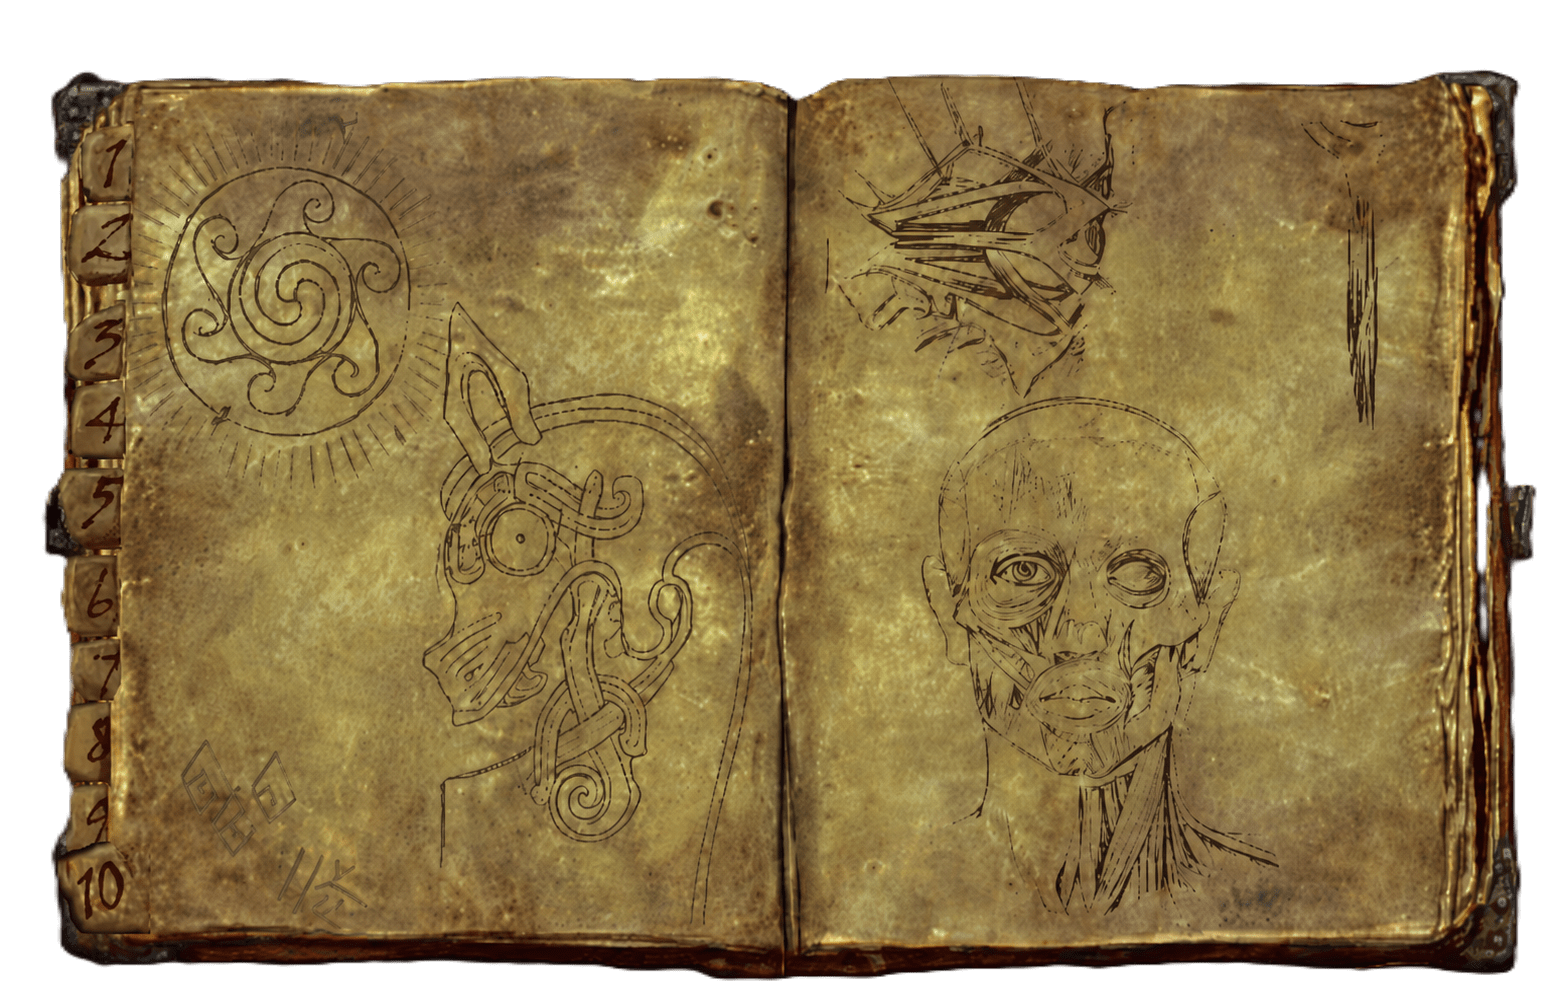
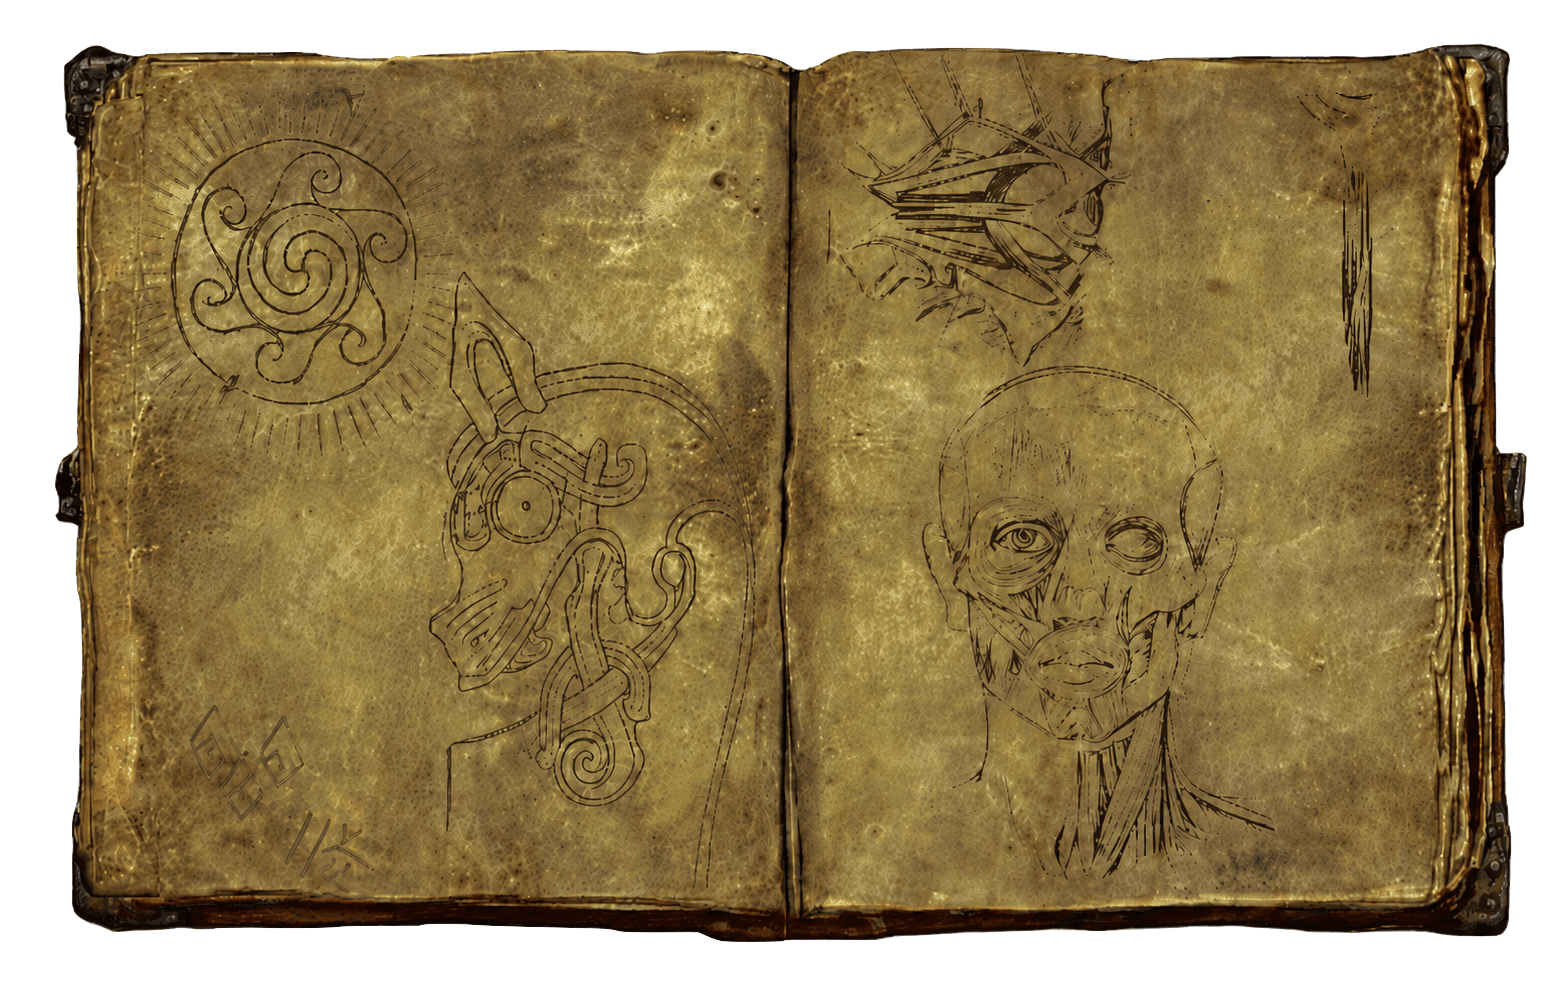
[+] Magic book iterations

diff --git a/src/workers/inventory.js b/src/workers/inventory.js
@@ -202,10 +202,17 @@ on("clicked:trash", function () {
   });
 });
 
+/* A rune id is always "rune-<suffix>" (see items.json); the matching known-
+   flag attribute is "known_<suffix>" — computed, never a stored mapping, so
+   adding a rune never needs a second catalog touched. */
+function knownFlag(runeId) { return "known_" + runeId.slice(5); }
+
 /* The grimoire: consuming a "rune" item there learns it permanently — placed
-   in the first empty spellbook slot (never freed again, no un-learning).
-   Each rune can only be learned once: an already-known rune is refused
-   (stays in hand) so the spellbook never shows the same one twice. */
+   in the first empty spellbook slot (never freed again, no un-learning),
+   and its known_<rune> flag is set so spells requiring it become visible
+   (see magic-slots.css.j2). Each rune can only be learned once: an
+   already-known rune is refused (stays in hand) so the spellbook never
+   shows the same one twice. */
 on("clicked:slot_grimoire", function () {
   getAttrs(SPELLBOOK_SLOTS.concat(["hand", "hand_from"]), function (v) {
     const hand = v.hand || "";
@@ -217,6 +224,7 @@ on("clicked:slot_grimoire", function () {
       if (!v[SPELLBOOK_SLOTS[i]]) {
         const update = { hand: "", hand_from: "", hand_cat: "", hand_effect: "", fit: "" };
         update[SPELLBOOK_SLOTS[i]] = hand;
+        update[knownFlag(hand)] = "1";
         ownCells(v.hand_from || "", hand).forEach(function (c) { update[c] = ""; });
         setAttrs(update);
         return;

diff --git a/src/css/inventory.css b/src/css/inventory.css
@@ -3,13 +3,13 @@
    Both visuals are separate assets — nothing is baked into ARX-BASE-2. */
 
 /* The button, drawn on the checkbox itself (50 × 50 source → 34 px on sheet).
-   Sits outside the book, hugging its left edge, level with the Armor Class shield. */
+   Sits outside the book, hugging its bottom-right corner. */
 .sheet-inventory-toggle {
   -webkit-appearance: none;
   appearance: none;
   position: absolute;
-  left: 12px;
-  top: 167px;
+  left: 1065px;
+  top: 670px;
   width: 34px;
   height: 34px;
   margin: 0;

diff --git a/tests/test_build.py b/tests/test_build.py
@@ -221,7 +221,8 @@ def test_legendary_items_get_permanent_glow_and_red_hover_text():
     assert ".sheet-statbar--item-plain-apple { color:" not in css
 
     html = build.jinja_env().get_template("sheet.html.j2").render(
-        items=fake_items, cols=build.GRID_COLS, rows=build.GRID_ROWS, bags=build.GRID_BAGS
+        items=fake_items, spells=build.load_spells(),
+        cols=build.GRID_COLS, rows=build.GRID_ROWS, bags=build.GRID_BAGS
     )
     assert '★ Épée légendaire' in html
     assert '>Pomme<' in html  # non-legendary label carries no star
@@ -305,6 +306,73 @@ def test_spellbook_and_grimoire_are_wired():
     for rid in rune_ids:
         assert f'class="sheet-statbar sheet-spell-statbar sheet-statbar--spell-{rid}"' in html, rid
         assert f".sheet-spellbook-slot:hover input[value=\"{rid}\"]" in css, rid
+
+
+def test_spells_catalog_loads():
+    spells = build.load_spells()
+    assert "boule-celerite" in spells
+    for spell in spells.values():
+        assert 1 <= spell["page"] <= 10, spell
+        assert 1 <= spell["slot"] <= 4, spell
+        assert spell["runes"]
+        for rune_id in spell["runes"]:
+            assert rune_id in build.load_items(), rune_id
+
+
+def test_spell_page_navigation_is_wired():
+    html = build.render_html()
+    css = build.build_css("x")
+    pages_with_spells = {s["page"] for s in build.load_spells().values()}
+    for p in range(1, 11):
+        assert f'id="sheet-spell-page-{p}"' in html, p
+        assert f'for="sheet-spell-page-{p}"' in html, p
+        assert f".sheet-spell-page-tab--{p} {{ background-image: url('x/magic-nav-{p}.png'); }}" in css, p
+    # page 1 is always visible; other pages only if they have a spell
+    assert ".sheet-spell-page-tab--1 { display: block; }" in css
+    for p in range(2, 11):
+        rule = f".sheet-spell-page-tab--{p} {{ display: block; }}"
+        if p in pages_with_spells:
+            assert rule in css, p
+        else:
+            assert rule not in css, p
+
+
+def test_spell_with_icon_renders_image_not_text():
+    # Synthetic: the real catalog's spell has no icon yet (art not delivered).
+    fake_spells = {
+        "test-spell": {"label": "Test Spell", "runes": ["rune-aam"],
+                       "page": 1, "slot": 2, "icon": "item-fake-spell.png"},
+    }
+    html = build.jinja_env().get_template("partials/pages/magic.html.j2").render(
+        items=build.load_items(), spells=fake_spells)
+    css = build.jinja_env().get_template("css/magic-slots.css.j2").render(
+        items=build.load_items(), spells=fake_spells,
+        cols=build.GRID_COLS, rows=build.GRID_ROWS, bags=build.GRID_BAGS)
+    assert '<span class="sheet-spell-icon"></span>' in html
+    assert "Test Spell" not in html  # icon present -> no text fallback
+    assert ".sheet-spell-slot--test-spell .sheet-spell-icon" in css
+    assert "item-fake-spell.png" in css
+
+    # The real spell (no icon) still falls back to its text label.
+    real_html = build.render_html()
+    for spell_id, spell in build.load_spells().items():
+        if not spell.get("icon"):
+            assert f">{spell['label']}<" in real_html, spell_id
+
+
+def test_spell_visibility_requires_page_and_all_runes():
+    html = build.render_html()
+    css = build.build_css("x")
+    for spell_id, spell in build.load_spells().items():
+        assert f'class="sheet-spell-slot sheet-spell-slot--slot-{spell["slot"]} sheet-spell-slot--{spell_id}"' in html, spell_id
+        expected = f'.sheet-arx:has(input[name="attr_spell_page"][value="{spell["page"]}"]:checked)'
+        for rune_id in spell["runes"]:
+            expected += f':has(input[name="attr_known_{rune_id[5:]}"][value="1"])'
+        expected += f" .sheet-spell-slot--{spell_id}"
+        assert expected in css, spell_id
+    for item_id, item in build.load_items().items():
+        if item.get("effect") == "rune":
+            assert f'name="attr_known_{item_id[5:]}"' in html, item_id
 
 
 def test_dev_shim_stays_out_of_the_roll20_deliverable():

diff --git a/build.py b/build.py
@@ -24,6 +24,7 @@ ASSET_BASE = "https://raw.githubusercontent.com/C-Chafik/arx-jdr-sheet/main/asse
 PREVIEW_ASSET_BASE = "../assets"
 
 ITEMS_FILE = ROOT / "items.json"
+SPELLS_FILE = ROOT / "spells.json"
 
 # Bag grid dimensions — single source of truth, injected into templates,
 # the sheet worker, the mod script and the dev shim.
@@ -37,6 +38,10 @@ GRID_BAGS = 4
 
 def load_items() -> dict:
     return json.loads(ITEMS_FILE.read_text(encoding="utf-8"))
+
+
+def load_spells() -> dict:
+    return json.loads(SPELLS_FILE.read_text(encoding="utf-8"))
 
 
 def inject_grid(code: str) -> str:
@@ -160,7 +165,7 @@ def jinja_env() -> Environment:
 
 def render_html() -> str:
     html = jinja_env().get_template("sheet.html.j2").render(
-        items=load_items(), cols=GRID_COLS, rows=GRID_ROWS, bags=GRID_BAGS)
+        items=load_items(), spells=load_spells(), cols=GRID_COLS, rows=GRID_ROWS, bags=GRID_BAGS)
     return html + render_worker()
 
 
@@ -169,13 +174,16 @@ def build_css(asset_base: str) -> str:
     for name in CSS_FILES:
         if name.endswith(".j2"):
             parts.append(jinja_env().get_template(f"css/{name}").render(
-                items=load_items(), cols=GRID_COLS, rows=GRID_ROWS, bags=GRID_BAGS))
+                items=load_items(), spells=load_spells(),
+                cols=GRID_COLS, rows=GRID_ROWS, bags=GRID_BAGS))
         else:
             parts.append((SRC / "css" / name).read_text(encoding="utf-8"))
     return "\n".join(parts).replace("{{ASSET_BASE}}", asset_base)
 
 
 def render_worker() -> str:
+    # Spell visibility (page + rune-combination) is pure CSS (see magic-slots.css.j2);
+    # the worker only ever needs to know about runes, not spells.
     parts = [(SRC / "workers" / name).read_text(encoding="utf-8") for name in WORKER_FILES]
     code = "\n".join(parts).replace("{{ITEMS_JSON}}", json.dumps(load_items(), ensure_ascii=False))
     return f'<script type="text/worker">\n{inject_grid(code)}\n</script>\n'